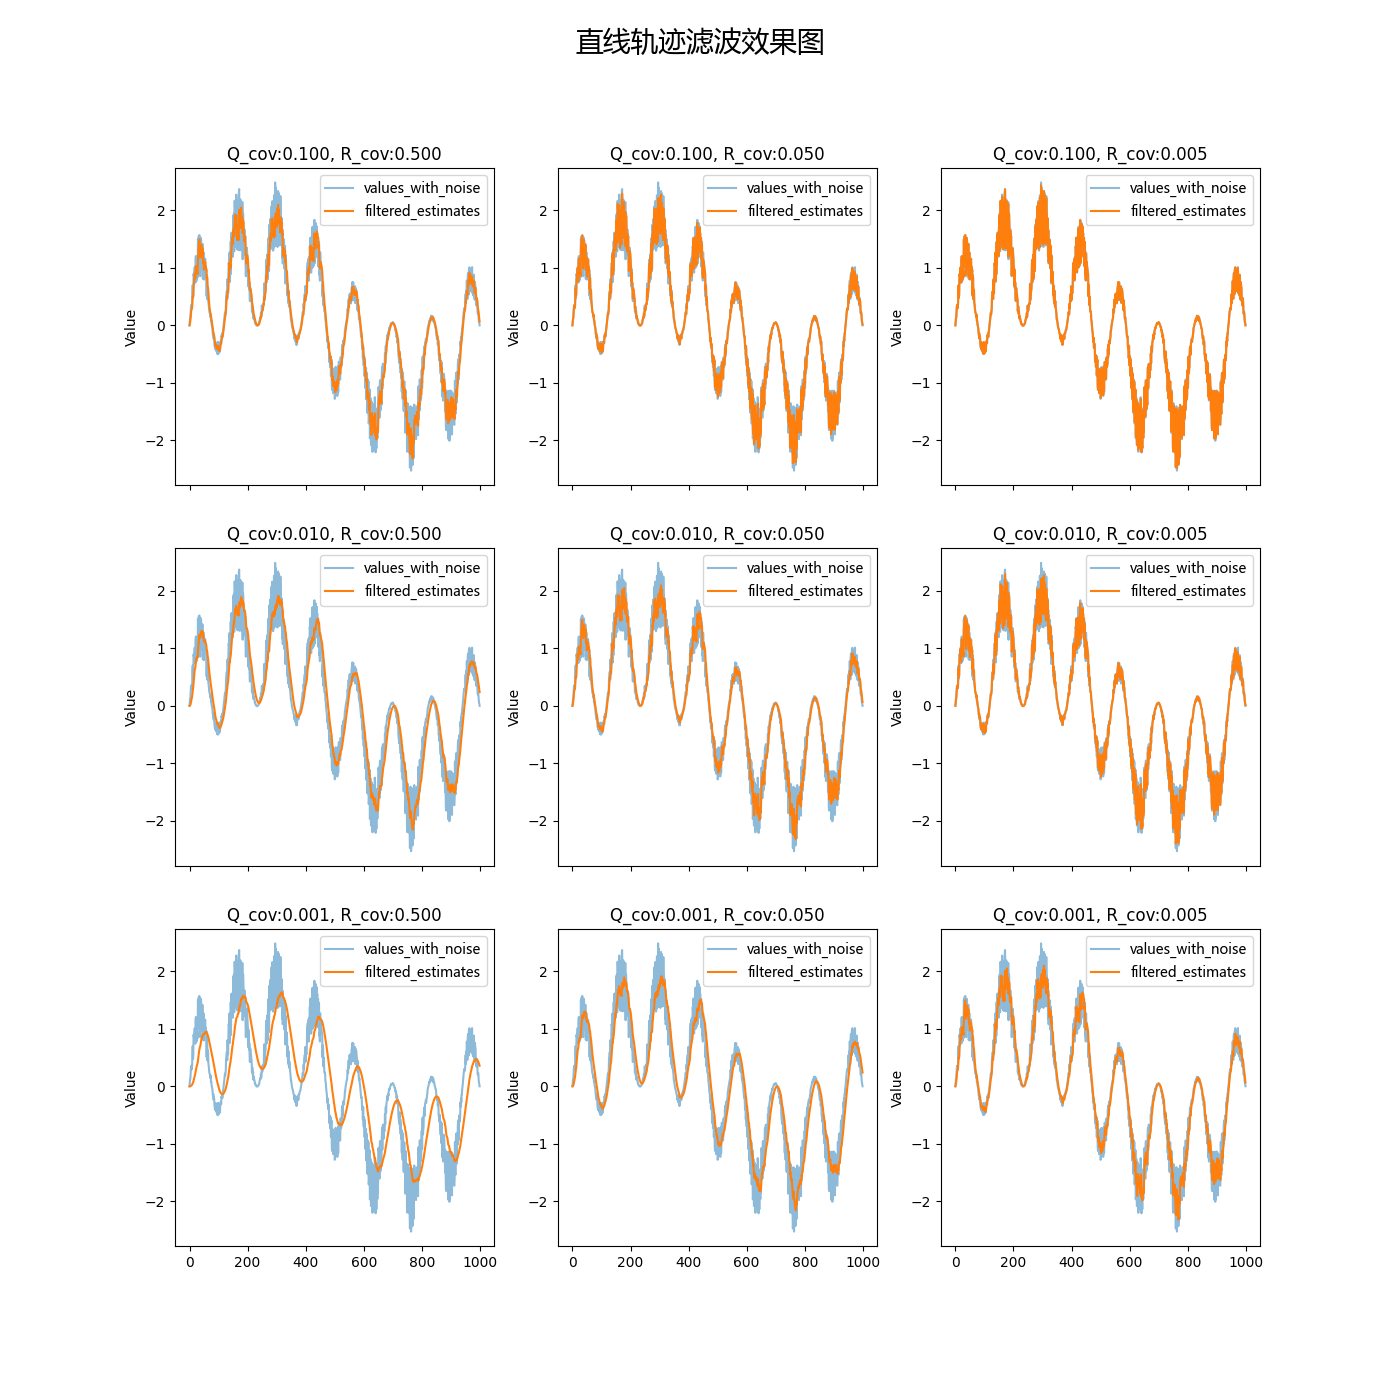
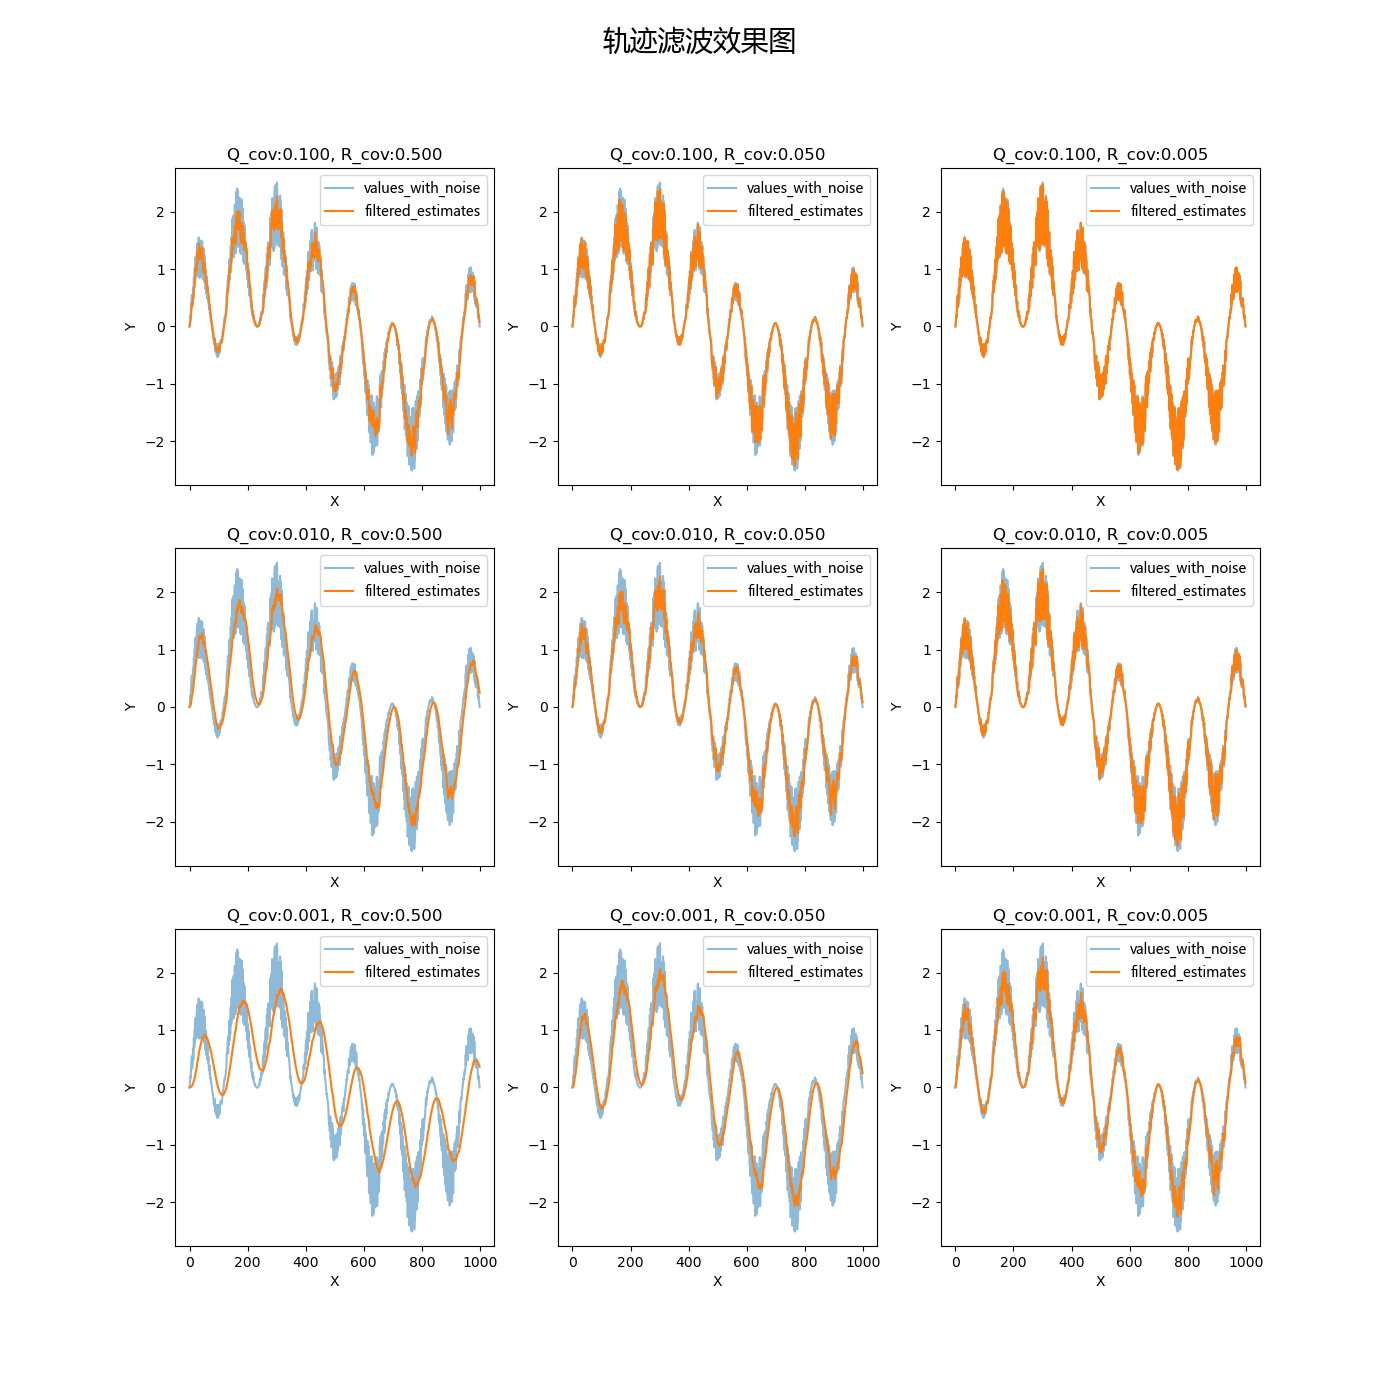
kalman

diff --git a/kalman_filter/kalman.py b/kalman_filter/kalman.py
@@ -42,7 +42,7 @@ values_with_noise = true_values + flag * true_values * noise
 
 fig, axs = plt.subplots(3, 3, sharex=True, sharey=False, figsize=(14, 14))  # 创建合适的画布
 plt.rcParams['font.family'] = 'Microsoft YaHei'
-plt.suptitle("直线轨迹滤波效果图", fontsize=20)
+plt.suptitle("轨迹滤波效果图", fontsize=20)
 for i in range(3):
     for j in range(3):
         # 初始化卡尔曼滤波的一些参数
@@ -56,7 +56,8 @@ for i in range(3):
         axs[i, j].plot(values_with_noise, label='values_with_noise', alpha=0.5)
         axs[i, j].plot(filtered_estimates, label='filtered_estimates')
         axs[i, j].legend()
-        axs[i, j].set_ylabel('Value')
+        axs[i, j].set_xlabel('X')
+        axs[i, j].set_ylabel('Y')
         axs[i, j].set_title('Q_cov:%.3f, R_cov:%.3f' % (Q_cov, R_cov))
 
 plt.savefig('直线轨迹滤波效果图')
